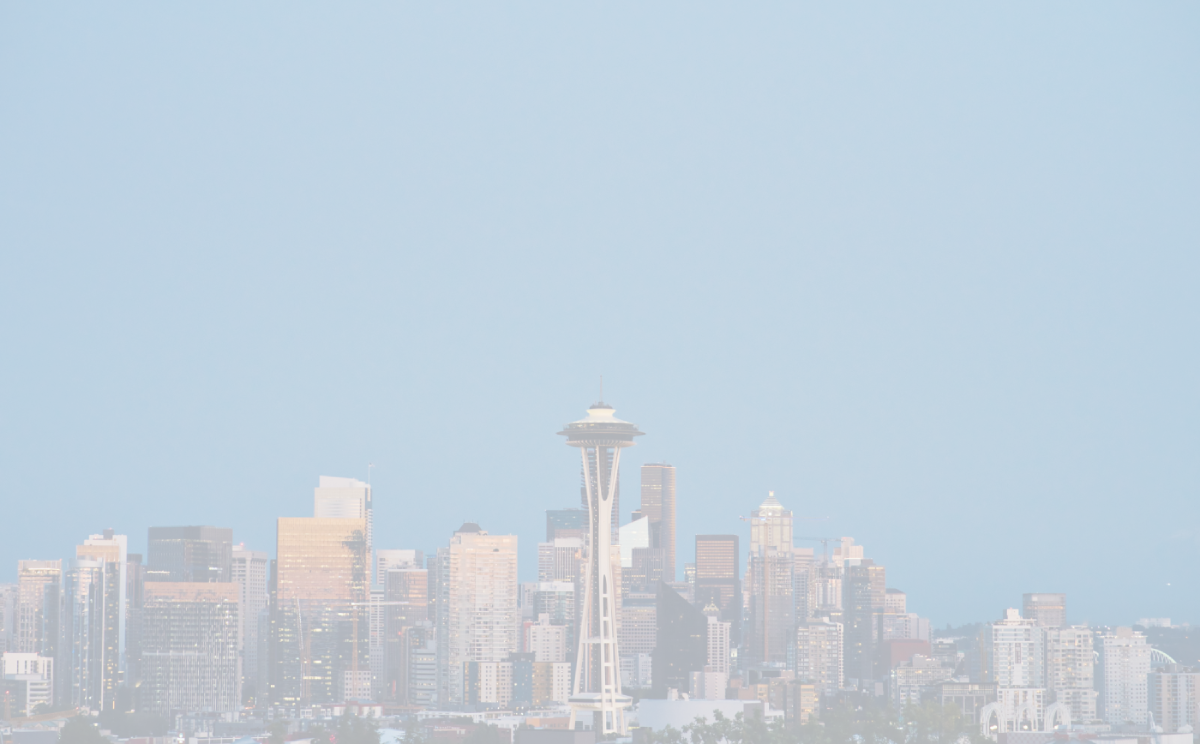
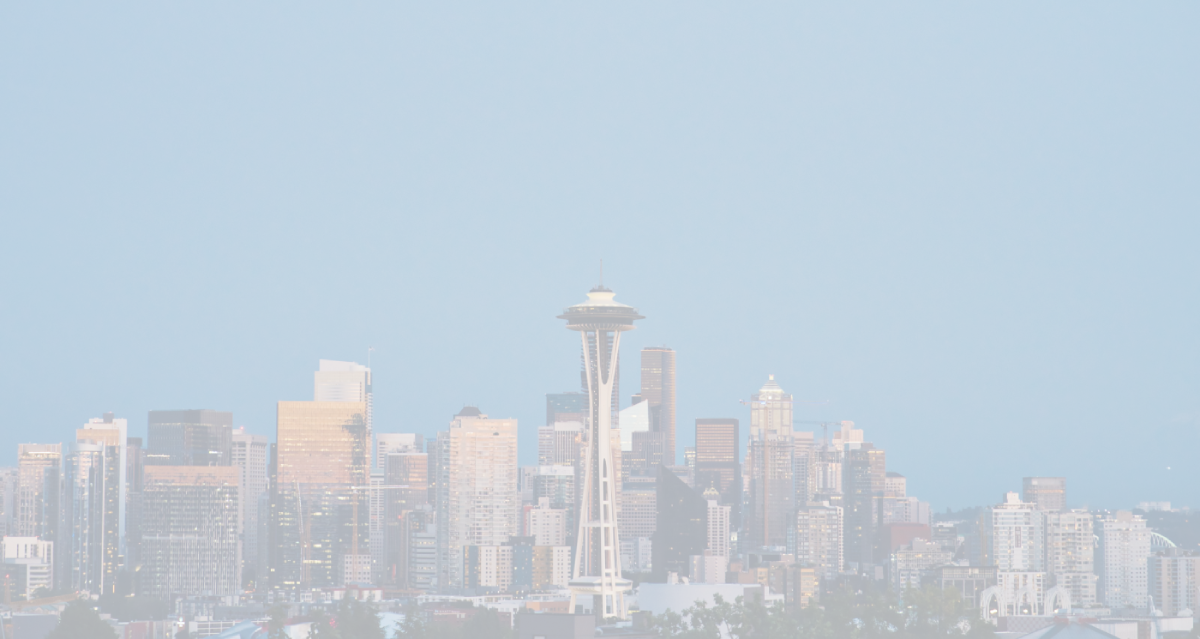
new colors, pictures, button behavior

diff --git a/src/style/components/_buttons.scss b/src/style/components/_buttons.scss
@@ -32,27 +32,27 @@
   border-image-slice: 1;
   cursor: pointer;
   // Responsive Button hero style
-  @include respond(phone) {
-    background-image: none;
-    border: 2px solid $secondary-color;
-    -webkit-text-fill-color: $secondary-color;
-  }
+  // @include respond(phone) {
+  //   background-image: none;
+  //   border: 2px solid $secondary-color;
+  //   -webkit-text-fill-color: $secondary-color;
+  // }
 
   &::after {
     background-image: linear-gradient(135deg, $primary-color 0%, $secondary-color 100%);
     // Responsive Button hero style
-    @include respond(phone) {
-      background-image: none;
-    }
+    // @include respond(phone) {
+    //   background-image: none;
+    // }
   }
 
   &:hover {
     -webkit-text-fill-color: $white-color;
     text-decoration: none;
     // Responsive Button hover hero style
-    @include respond(phone) {
-      -webkit-text-fill-color: $secondary-color;
-    }
+    // @include respond(phone) {
+    //   -webkit-text-fill-color: $secondary-color;
+    // }
 
     &::after {
       width: 100%;
@@ -73,7 +73,6 @@
     color: $secondary-color;
     text-decoration: none;
     cursor: pointer;
-
     &::after {
       width: 100%;
     }
@@ -83,8 +82,7 @@
 .cta-btn--resume {
   color: $white-color;
   border: 2px solid rgba($color: #fff, $alpha: 0);
-  vertical-align: middle;
-  text-align: center;
+  
   &:hover {
     cursor: pointer;
     color: $white-color;

diff --git a/src/style/sections/_about.scss b/src/style/sections/_about.scss
@@ -1,9 +1,10 @@
 #about {
   background-color: $primary-color;
   background-image: linear-gradient(
-    135deg,
-    $primary-color 0%,
-    $secondary-color 100%
+    220deg,
+    $primary-color,
+    $primary-color,
+    $secondary-color 85%,
   );
   color: $white-color;
   height: 100%;
@@ -28,10 +29,8 @@
       height: 100%;
       align-items: center;
       justify-content: center;
+      padding-bottom: 6.2rem;
 
-      @include respond(tab-port) {
-        padding-bottom: 6.4rem;
-      }
       @include respond(tab-land) {
         height: 100%;
       }
@@ -40,11 +39,13 @@
     &__info {
       display: flex;
       height: 100%;
+      padding: 3.2rem 0rem;
       justify-content: center;
       flex-direction: column;
 
       @include respond(phone) {
         align-items: left;
+        padding: 0rem;
       }
 
       &-text {
@@ -55,6 +56,7 @@
         }
         @include respond(phone) {
           font-size: 1.6rem;
+          margin-bottom: 2.4rem;
         }
 
         &--important {

diff --git a/src/components/About/About.jsx b/src/components/About/About.jsx
@@ -28,14 +28,14 @@ const About = () => {
       <Container>
         <Title title="My Story" subtitle="" />
         <Row className="about-wrapper">
-          <Col md={6} sm={12}>
+          <Col md={5} sm={12}>
             <Fade bottom duration={1000} delay={600} distance="30px">
               <div className="about-wrapper__image">
                 <AboutImg alt="profile picture" filename={img} />
               </div>
             </Fade>
           </Col>
-          <Col md={6} sm={12}>
+          <Col md={7} sm={12}>
             <Fade left={isDesktop} bottom={isMobile} duration={1000} delay={1000} distance="30px">
               <div className="about-wrapper__info">
                 <p className="about-wrapper__info-text">

diff --git a/src/components/Image/AboutImg.jsx b/src/components/Image/AboutImg.jsx
@@ -13,7 +13,7 @@ const AboutImg = ({ filename, alt }) => (
               relativePath
               name
               childImageSharp {
-                fixed(width: 350) {
+                fixed(width: 265) {
                   ...GatsbyImageSharpFixed
                 }
               }
@@ -28,7 +28,7 @@ const AboutImg = ({ filename, alt }) => (
       if (!image) return null;
 
       const imageFixed = image.node.childImageSharp.fixed;
-      return <Img className="profile-radius rounded" alt={alt} fixed={imageFixed} />;
+      return <Img className="rounded profile-radius" alt={alt} fixed={imageFixed} />;
     }}
   />
 );

diff --git a/src/style/base/_typography.scss b/src/style/base/_typography.scss
@@ -47,10 +47,10 @@ a:hover {
   -webkit-text-fill-color: transparent;
 
   // Responsive text purple style
-  @include respond(phone) {
-    background-image: none;
-    -webkit-text-fill-color: $secondary-color;
-  }
+  // @include respond(phone) {
+  //   background-image: none;
+  //   -webkit-text-fill-color: $primary-color;
+  // }
 
   &:hover {
     transform: translateX(2px);

diff --git a/src/components/Contact/Contact.jsx b/src/components/Contact/Contact.jsx
@@ -22,7 +22,7 @@ const Contact = () => {
             <a
               target="_blank"
               rel="noopener noreferrer"
-              className="cta-btn cta-btn--resume"
+              className="cta-btn cta-btn--projects"
               href={email ? `mailto:${email}` : 'https://www.linkedin.com/in/watsonderek/'}
             >
               {btn || "Let's Talk"}

diff --git a/src/style/abstracts/_variables.scss b/src/style/abstracts/_variables.scss
@@ -1,9 +1,12 @@
 // COLORS
-$primary-color: #3399FF;
-$secondary-color: #9A3334;
+// $primary-color: #3399FF;
+// $secondary-color: #9A3334;
 
-// $primary-color: #7f449d;
-// $secondary-color: #793fc1;
+$primary-color: #194D6B;
+$secondary-color: #79BD9A;
+
+// $primary-color: #B77873;
+// $secondary-color: #FFE48A;
 
 $white-color: #fff;
 

diff --git a/src/style/abstracts/_helpers.scss b/src/style/abstracts/_helpers.scss
@@ -9,8 +9,8 @@
 }
 
 .profile-radius img {
-  border-top-left-radius: 42%;
-  border-top-right-radius: 42%;
-  border-bottom-right-radius: 45%;
-  border-bottom-left-radius: 30%;
+    border-top-left-radius: 42%;
+    border-top-right-radius: 42%;
+    border-bottom-right-radius: 45%;
+    border-bottom-left-radius: 30%;
 }

diff --git a/src/style/sections/_hero.scss b/src/style/sections/_hero.scss
@@ -16,7 +16,7 @@
   z-index: -1;
 
   // If you want to set a background image on the hero section, uncomment these with yout custom image
-  background: url("/images/seattle-3.png");
+  background: url("/images/seattle.png");
   background-position: center;
   background-size: cover;
   background-blend-mode: lighten;
